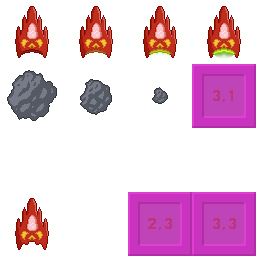
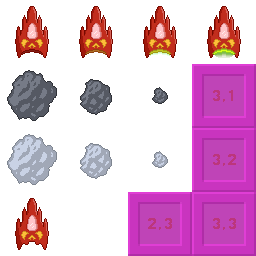
Implemented New White Asteroid
Implemented off-screen wrapping for white asteroid

Added two more levels/waves

diff --git a/src/Entities/Dynamic/Enemies/Asteroid.java b/src/Entities/Dynamic/Enemies/Asteroid.java
@@ -4,8 +4,10 @@ import Assets.AssetManager;
 import Entities.Collision.CollisionBox;
 import Entities.Dynamic.Particles.AsteroidParticle;
 import Entities.Dynamic.ExpDot;
+import Entities.Dynamic.Particles.AsteroidParticleWhite;
 import Entities.Entity;
 import Entities.EntityManager;
+import Entities.iOutOfBounds;
 import Entities.iVulnerable;
 import Game.EnemyDirector;
 import Game.Launcher;
@@ -19,38 +21,43 @@ import java.awt.image.AffineTransformOp;
  * An asteroid object
  */
 
-public class Asteroid extends Enemy implements iVulnerable {
+public class Asteroid extends Enemy implements iVulnerable, iOutOfBounds {
 // VARIABLES //
     private static final int OFFSCREEN_BOUNDARY = 96;
     public static final int DEFAULT_SIZE = 64;
 
-    private int level;
+    protected int level;
     private int hp;
     private double spriteDirection;
     private double spriteRotation;
+    private boolean wraps;
 
 // CONSTRUCTORS //
-    public Asteroid(float x, float y, int level, double direction, double speed) {
+    public Asteroid(float x, float y, int level, double direction, double speed, boolean wraps) {
         super(x, y, DEFAULT_SIZE, DEFAULT_SIZE, direction);
         this.level = level;
         this.spriteDirection = direction;
         moveSpeed = speed;
+        this.wraps = wraps;
 
         // Set depending on level
         if(level >=3) {
             hp = 5;
             collision = new CollisionBox(xpos+11, ypos+11, 42, 42, 11, 11, this);
-            img = AssetManager.get().getSprite("AstLarge");
+            if(!wraps) img = AssetManager.get().getSprite("AstLarge");
+            else img = AssetManager.get().getSprite("AstLargeWhite");
         }
         else if(level == 2) {
             hp = 3;
             collision = new CollisionBox(xpos+18, ypos+18, 28, 28, 18, 18, this);
-            img = AssetManager.get().getSprite("AstMedium");
+            if(!wraps) img = AssetManager.get().getSprite("AstMedium");
+            else img = AssetManager.get().getSprite("AstMediumWhite");
         }
         else {
             hp = 1;
             collision = new CollisionBox(xpos+26, ypos+26, 12, 12, 26, 26, this);
-            img = AssetManager.get().getSprite("AstSmall");
+            if(!wraps) img = AssetManager.get().getSprite("AstSmall");
+            else img = AssetManager.get().getSprite("AstSmallWhite");
         }
 
         // Set Move Speeds
@@ -71,17 +78,8 @@ public class Asteroid extends Enemy implements iVulnerable {
         rotateSprite();
 
         // If asteroid goes out of bounds
-        if(     xpos <= -OFFSCREEN_BOUNDARY ||
-                ypos <= -OFFSCREEN_BOUNDARY ||
-                xpos >= Launcher.DEF_GAME_WIDTH + OFFSCREEN_BOUNDARY ||
-                ypos >= Launcher.DEF_GAME_HEIGHT + OFFSCREEN_BOUNDARY) {
-            // 1 in 3 chance to bounce back
-            if(Game.Game.getIntFromRange(0, 2) == 2) {
-                direction += Math.PI;
-                moveSpeed += 0.2;
-                setMoveSpeeds();
-                move();
-            } else kill();
+        if(checkOOB()) {
+            doWhenOutOfBounds();
         }
     }
 
@@ -105,6 +103,76 @@ public class Asteroid extends Enemy implements iVulnerable {
 
     }
 
+    @Override
+    public void die() {
+        // Create 2 child asteroids if big enough to do so
+        if(level > 1) {
+            for(int i = -1; i < 2; i+=2) {
+                float newX = Game.Game.getFloatFromRange(xpos-width/8, xpos+width/8);
+                float newY = Game.Game.getFloatFromRange(ypos-height/8, ypos+height/8);
+                double newDir = Game.Game.getDoubleFromRange(direction + (i*(Math.PI/4)), direction + (i*(Math.PI/8)));
+
+                Asteroid ast = new Asteroid(newX, newY, level-1, newDir, moveSpeed*1.2, wraps);
+                EntityManager.get().subscribe(ast);
+                EnemyDirector.get().subscribe(ast);
+            }
+        }
+        // 1 in 5 chance to generate a third asteroid child upon death of lvl 3 asteroid
+        if(level == 3 && Game.Game.getIntFromRange(0, 4) == 4) {
+            float newX = Game.Game.getFloatFromRange(xpos-width/8, xpos+width/8);
+            float newY = Game.Game.getFloatFromRange(ypos-height/8, ypos+height/8);
+
+            Asteroid ast = new Asteroid(newX, newY, level-1, direction, moveSpeed*1.2, wraps);
+            EntityManager.get().subscribe(ast);
+            EnemyDirector.get().subscribe(ast);
+        }
+        EntityManager.get().subscribe(new ExpDot(this, level*2));
+        explode();
+        EntityManager.get().unsubscribe(this);
+        EntityManager.get().unsubscribe(collision);
+        EnemyDirector.get().unsubscribe(this);
+    }
+
+    // Hard die, just kills the object
+
+    public void kill() {
+        EntityManager.get().unsubscribe(this);
+        EntityManager.get().unsubscribe(collision);
+        EnemyDirector.get().unsubscribe(this);
+    }
+    // Method to explode rock particles
+
+    protected void explode() {
+        int particNum = 3 + (2 * level);
+
+        for(int i = 0; i < particNum; i++) {
+            if(!wraps) EntityManager.get().subscribe(new AsteroidParticle(this, ((i * 2 * Math.PI) /(particNum))));
+            else EntityManager.get().subscribe(new AsteroidParticleWhite(this, ((i * 2 * Math.PI) /(particNum))));
+        }
+    }
+    @Override
+    public boolean checkOOB() {
+        if(     xpos <= -OFFSCREEN_BOUNDARY ||
+                ypos <= -OFFSCREEN_BOUNDARY ||
+                xpos >= Launcher.DEF_GAME_WIDTH + OFFSCREEN_BOUNDARY ||
+                ypos >= Launcher.DEF_GAME_HEIGHT + OFFSCREEN_BOUNDARY) {
+            return true;
+        }
+
+        return false;
+    }
+
+    @Override
+    public void doWhenOutOfBounds() {
+
+        // 1 in 3 chance to bounce back
+        if(wraps) {
+            xpos = getOverlapX();
+            ypos = getOverlapY();
+            move();
+        } else kill();
+    }
+
 // GETTERS & SETTERS //
     @Override
     public int getHP() {
@@ -120,52 +188,6 @@ public class Asteroid extends Enemy implements iVulnerable {
         this.hp += hp;
         if(this.hp <= 0) {
             die();
-        }
-    }
-
-    @Override
-    public void die() {
-        // Create 2 child asteroids if big enough to do so
-        if(level > 1) {
-            for(int i = -1; i < 2; i+=2) {
-                float newX = Game.Game.getFloatFromRange(xpos-width/8, xpos+width/8);
-                float newY = Game.Game.getFloatFromRange(ypos-height/8, ypos+height/8);
-                double newDir = Game.Game.getDoubleFromRange(direction + (i*(Math.PI/4)), direction + (i*(Math.PI/8)));
-
-                Asteroid ast = new Asteroid(newX, newY, level-1, newDir, moveSpeed*1.2);
-                EntityManager.get().subscribe(ast);
-                EnemyDirector.get().subscribe(ast);
-            }
-        }
-        // 1 in 5 chance to generate a third asteroid child upon death of lvl 3 asteroid
-        if(level == 3 && Game.Game.getIntFromRange(0, 4) == 4) {
-            float newX = Game.Game.getFloatFromRange(xpos-width/8, xpos+width/8);
-            float newY = Game.Game.getFloatFromRange(ypos-height/8, ypos+height/8);
-
-            Asteroid ast = new Asteroid(newX, newY, level-1, direction, moveSpeed*1.2);
-            EntityManager.get().subscribe(ast);
-            EnemyDirector.get().subscribe(ast);
-        }
-        EntityManager.get().subscribe(new ExpDot(this, level*2));
-        explode();
-        EntityManager.get().unsubscribe(this);
-        EntityManager.get().unsubscribe(collision);
-        EnemyDirector.get().unsubscribe(this);
-    }
-
-    // Hard die, just kills the object
-    public void kill() {
-        EntityManager.get().unsubscribe(this);
-        EntityManager.get().unsubscribe(collision);
-        EnemyDirector.get().unsubscribe(this);
-    }
-
-    // Method to explode rock particles
-    private void explode() {
-        int particNum = 3 + (2 * level);
-
-        for(int i = 0; i < particNum; i++) {
-            EntityManager.get().subscribe(new AsteroidParticle(this, ((i * 2 * Math.PI) /(particNum))));
         }
     }
 }

diff --git a/src/Game/EnemyDirector.java b/src/Game/EnemyDirector.java
@@ -126,8 +126,8 @@ public class EnemyDirector implements iCanHaveCodeTimer, iCanHaveEnemyTimer {
         switch (gameLevel) {
             case 1: // Level 1 //
                 for(int i = 0; i < 2; i++)
-                    spawn_queue.add(EnemyDirector.generateEnemyPosition(new Asteroid(0, 0, 2, 0, 1), Asteroid.DEFAULT_SIZE));
-                spawn_queue.add(EnemyDirector.generateEnemyPosition(new Asteroid(0, 0, 3, 0, 1), Asteroid.DEFAULT_SIZE));
+                    spawn_queue.add(EnemyDirector.generateEnemyPosition(new Asteroid(0, 0, 2, 0, 1, false), Asteroid.DEFAULT_SIZE));
+                spawn_queue.add(EnemyDirector.generateEnemyPosition(new Asteroid(0, 0, 3, 0, 1, false), Asteroid.DEFAULT_SIZE));
 
                 spawn_queue_minsec = 60;
                 spawn_queue_maxsec = 4*60;
@@ -135,21 +135,40 @@ public class EnemyDirector implements iCanHaveCodeTimer, iCanHaveEnemyTimer {
 
             case 2: // Level 2 //
                 for(int i = 0; i < 2; i++) {
-                    spawn_queue.add(EnemyDirector.generateEnemyPosition(new Asteroid(0, 0, 3, 0, 1), Asteroid.DEFAULT_SIZE));
-                    spawn_queue.add(EnemyDirector.generateEnemyPosition(new Asteroid(0, 0, 2, 0, 1), Asteroid.DEFAULT_SIZE));
-                    spawn_queue.add(EnemyDirector.generateEnemyPosition(new Asteroid(0, 0, 1, 0, 1.5), Asteroid.DEFAULT_SIZE));
+                    spawn_queue.add(EnemyDirector.generateEnemyPosition(new Asteroid(0, 0, 3, 0, 1, false), Asteroid.DEFAULT_SIZE));
+                    spawn_queue.add(EnemyDirector.generateEnemyPosition(new Asteroid(0, 0, 2, 0, 1, false), Asteroid.DEFAULT_SIZE));
+                    spawn_queue.add(EnemyDirector.generateEnemyPosition(new Asteroid(0, 0, 1, 0, 2, false), Asteroid.DEFAULT_SIZE));
                 }
-                spawn_queue.add(EnemyDirector.generateEnemyPosition(new Asteroid(0, 0, 1, 0, 1), Asteroid.DEFAULT_SIZE));
+                spawn_queue.add(EnemyDirector.generateEnemyPosition(new Asteroid(0, 0, 1, 0, 1, false), Asteroid.DEFAULT_SIZE));
                 Collections.shuffle(spawn_queue);
 
                 spawn_queue_minsec = 45;
                 spawn_queue_maxsec = 3*60+30;
                 break;
 
-            case 3: // Level 3 // TODO //
+            case 3: // Level 3 //
+                for(int i = 0; i < 2; i++) {
+                    spawn_queue.add(EnemyDirector.generateEnemyPosition(new Asteroid(0, 0, 3, 0, 2, false), Asteroid.DEFAULT_SIZE));
+                    spawn_queue.add(EnemyDirector.generateEnemyPosition(new Asteroid(0, 0, 2, 0, 2, false), Asteroid.DEFAULT_SIZE));
+                }
+                spawn_queue.add(EnemyDirector.generateEnemyPosition(new Asteroid(0, 0, 2, 0, 2, true), Asteroid.DEFAULT_SIZE));
+                Collections.shuffle(spawn_queue);
+
+                spawn_queue_minsec = 35;
+                spawn_queue_maxsec = 3*60;
+
                 break;
 
-            case 4: // Level 4 // TODO //
+            case 4: // Level 4 // Asteroid Belt
+                for(int i = 0; i < 2; i++) {
+                    spawn_queue.add(EnemyDirector.generateEnemyPosition(new Asteroid(0, 0, 3, 0, 2, true), Asteroid.DEFAULT_SIZE));
+                    spawn_queue.add(EnemyDirector.generateEnemyPosition(new Asteroid(0, 0, 2, 0, 2, true), Asteroid.DEFAULT_SIZE));
+                    spawn_queue.add(EnemyDirector.generateEnemyPosition(new Asteroid(0, 0, 1, 0, 3, true), Asteroid.DEFAULT_SIZE));
+                }
+                Collections.shuffle(spawn_queue);
+
+                spawn_queue_minsec = 45;
+                spawn_queue_maxsec = 3*60+30;
                 break;
 
             default: // TODO // DYNAMIC LEVEL GENERATION
@@ -160,8 +179,8 @@ public class EnemyDirector implements iCanHaveCodeTimer, iCanHaveEnemyTimer {
     // Method - Dynamically Generate A New Position & Direction for the Enemy
     private static Enemy generateEnemyPosition(Enemy e, int enemySize) {
         // Generate new (x,y) Co-ordinates
-        float newXpos = Game.getFloatFromRange(-enemySize, Launcher.DEF_GAME_HEIGHT);
-        float newYpos = Game.getFloatFromRange(-enemySize, Launcher.DEF_GAME_WIDTH);
+        float newXpos = Game.getFloatFromRange(-enemySize, Launcher.DEF_GAME_WIDTH);
+        float newYpos = Game.getFloatFromRange(-enemySize, Launcher.DEF_GAME_HEIGHT);
 
         // Randomly choose one wall to move behind (so the enemy spawns off-screen)
         switch (Game.getIntFromRange(0, 1)) {

diff --git a/src/Entities/Dynamic/Particles/AsteroidParticle.java b/src/Entities/Dynamic/Particles/AsteroidParticle.java
@@ -7,6 +7,8 @@ import Timer.TimerManager;
 
 import java.awt.geom.AffineTransform;
 import java.awt.image.AffineTransformOp;
+import java.awt.image.BufferedImage;
+import java.io.BufferedReader;
 
 /**
  * Created by Cameron on 5/04/2018.
@@ -23,7 +25,7 @@ public class AsteroidParticle extends Particle {
         setNewPosition();
         this.spriteDirection = direction;
         moveSpeed = 0.55;
-        img = AssetManager.get().getSprite(10, Game.Game.getIntFromRange(0, 3), 0);
+        img = getSprite();
 
         // Set Move Speed
         ymove = (float)(moveSpeed * -Math.sin(direction));
@@ -44,6 +46,10 @@ public class AsteroidParticle extends Particle {
     @Override
     public void collide(Entity ec) {
 
+    }
+
+    protected BufferedImage getSprite() {
+        return AssetManager.get().getSprite(10, Game.Game.getIntFromRange(0, 3), 0);
     }
 
     @Override

diff --git a/src/Entities/Entity.java b/src/Entities/Entity.java
@@ -1,6 +1,7 @@
 package Entities;
 
 import Entities.Collision.CollisionBox;
+import Game.Launcher;
 
 import java.awt.*;
 import java.awt.image.BufferedImage;
@@ -30,6 +31,16 @@ public abstract class Entity {
 // METHODS //
     public abstract void update();
     public abstract void draw(Graphics g);
+    public float getOverlapX() {
+        int w = Launcher.DEF_GAME_WIDTH / 2;
+        if(xpos > w) return w - (xpos - w);
+        else return w + (w - xpos);
+    }
+    public float getOverlapY() {
+        int h = Launcher.DEF_GAME_HEIGHT / 2;
+        if(ypos > h) return h - (ypos - h);
+        else return h + (h - ypos);
+    }
 
 // GETTERS & SETTERS //
     public CollisionBox getCollision() {

diff --git a/src/Entities/Dynamic/Particles/AsteroidParticleWhite.java b/src/Entities/Dynamic/Particles/AsteroidParticleWhite.java
@@ -1,0 +1,17 @@
+package Entities.Dynamic.Particles;
+
+import Assets.AssetManager;
+import Entities.Dynamic.DynamicEntity;
+
+import java.awt.image.BufferedImage;
+
+public class AsteroidParticleWhite extends AsteroidParticle{
+    public AsteroidParticleWhite(DynamicEntity parent, Double direction) {
+        super(parent, direction);
+    }
+
+    @Override
+    protected BufferedImage getSprite() {
+        return AssetManager.get().getSprite(10, Game.Game.getIntFromRange(0, 3), 2);
+    }
+}

diff --git a/src/Assets/AssetManager.java b/src/Assets/AssetManager.java
@@ -97,6 +97,12 @@ public class AssetManager {
                 return sheet1.getSprite(1,1);
             case "AstSmall":
                 return sheet1.getSprite(2,1);
+            case "AstLargeWhite":
+                return sheet1.getSprite(0,2);
+            case "AstMediumWhite":
+                return sheet1.getSprite(1,2);
+            case "AstSmallWhite":
+                return sheet1.getSprite(2,2);
             case "Coll":
                 return collColour;
         }

diff --git a/src/Entities/iOutOfBounds.java b/src/Entities/iOutOfBounds.java
@@ -1,0 +1,12 @@
+package Entities;
+
+/**
+ * Cameron Bell - 13/04/2018
+ * i
+ *
+ */
+
+public interface iOutOfBounds {
+    public boolean checkOOB();
+    public void doWhenOutOfBounds();
+}
